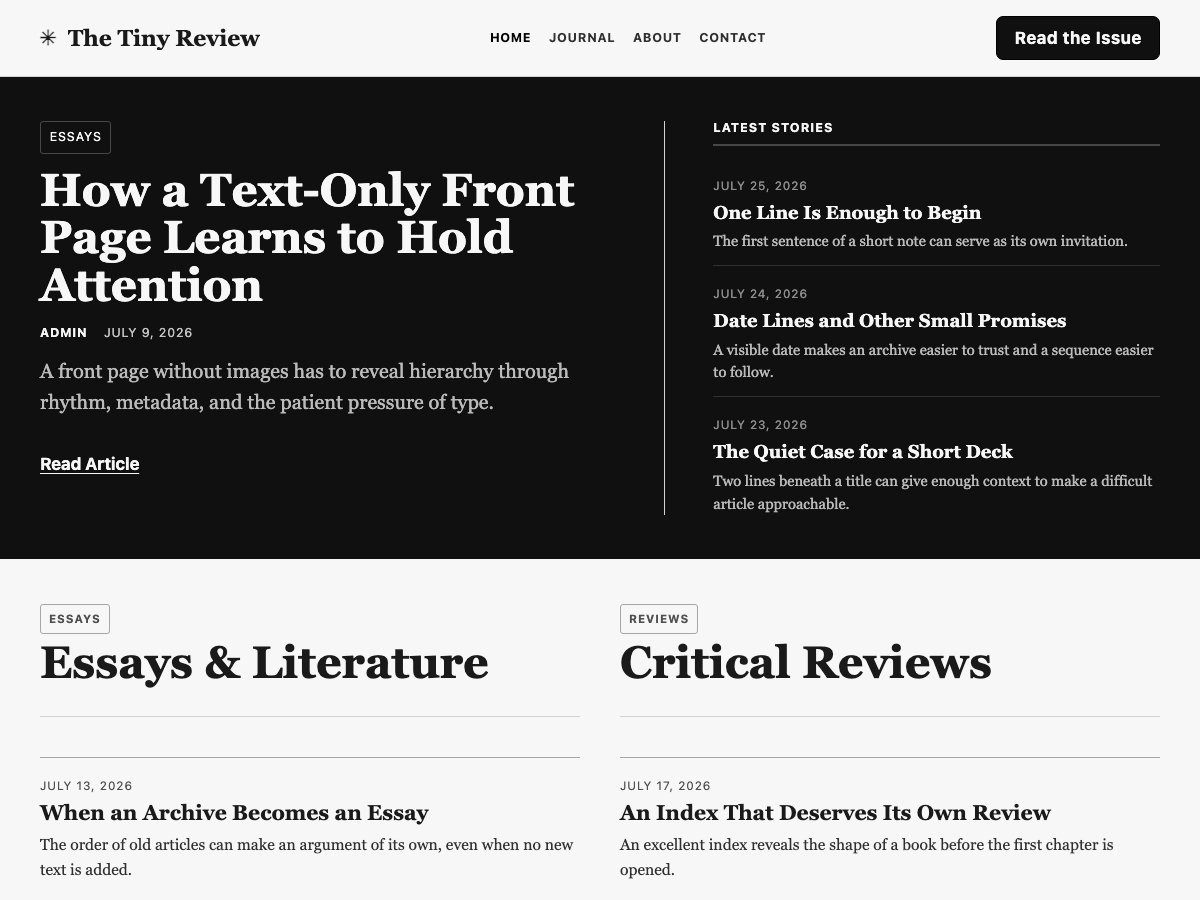
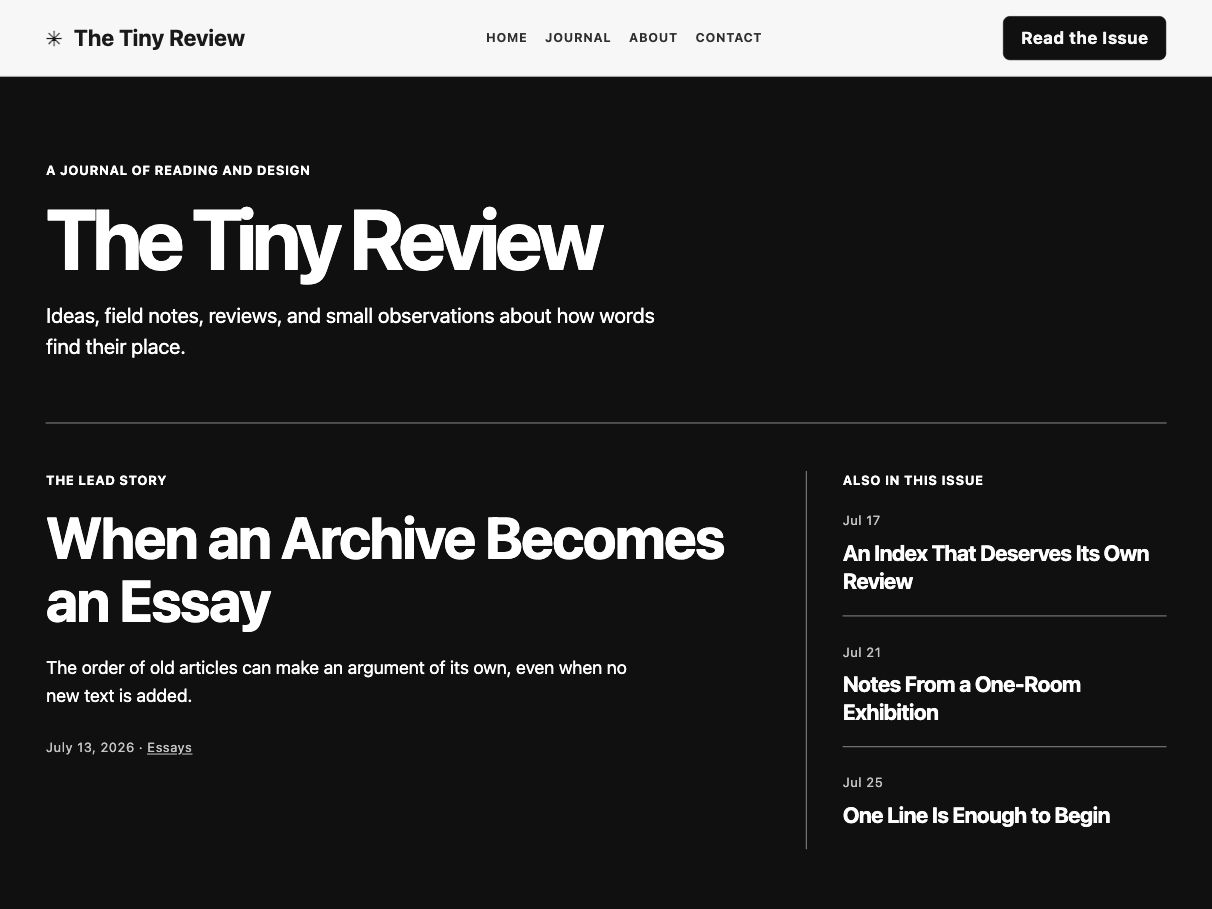
Make long monochrome index the Classic home

diff --git a/style.css b/style.css
@@ -1,7 +1,7 @@
 /*
 Theme Name: Editorial Classic
 Description: A text-only classic editorial theme with black, white, and grey typography and nine article-led home sections.
-Version: 1.4.0
+Version: 1.4.1
 Author: bin zhan
 Text Domain: editorialclassic
 Domain Path: /languages
@@ -29,9 +29,9 @@ Tags: blog, education, news, custom-menu, footer-widgets, right-sidebar, threade
 	--tec-black: #101010;
 	--tec-white: #f7f7f7;
 	--tec-focus: #000000;
-	--tec-font-display: ui-serif, Georgia, serif;
+	--tec-font-display: system-ui, sans-serif;
 	--tec-font-body: system-ui, sans-serif;
-	--tec-font-editorial: ui-serif, Georgia, serif;
+	--tec-font-editorial: system-ui, sans-serif;
 	--tec-gutter: clamp(1.25rem, 4vw, 2rem);
 	--tec-container: 1120px;
 	--tec-content: 700px;
@@ -1340,24 +1340,32 @@ html, body { max-width: 100%; overflow-x: hidden; }
 	.stream-rank-item__title { font-size: 1.28rem; }
 }
 
-/* Long editorial index, shared with the Plus demo. */
 /* Long, article-led home: each band has its own editorial reading order. */
 .home-showcase {
 	--story-accent: var(--tec-ink);
-	--story-cover: #1c1c1e;
+	--story-cover: #101010;
 	--story-cover-ink: #fff;
-	--story-dossier: #f5f5f5;
-	--story-dispatches: #fff;
-	--story-conversation: #f5f5f5;
-	--story-route: #fff;
 }
 .home-showcase .editorial-section { padding-block: clamp(4rem, 7vw, 7rem); }
 .home-showcase .editorial-section__inner { min-width: 0; }
-.home-showcase .editorial-section:nth-child(3) { background: var(--story-dossier); }
-.home-showcase .editorial-section:nth-child(5) { background: var(--story-dispatches); }
-.home-showcase .editorial-section:nth-child(7) { background: var(--story-conversation); }
-.home-showcase .editorial-section:nth-child(8) { background: var(--story-route); }
-.home-showcase .editorial-section:nth-child(9) { background: var(--tec-paper-alt); }
+.home-showcase .story-departments,
+.home-showcase .story-conversation { background: #ededed; }
+.home-showcase .story-dossier,
+.home-showcase .story-notes,
+.home-showcase .story-archive { background: #fff; }
+.home-showcase .story-dispatches { background: #d7d7d7; }
+.home-showcase .story-reviews,
+.home-showcase .story-route {
+	--story-accent: #fff;
+	--tec-muted: #d0d0d0;
+	--tec-ink-soft: #e2e2e2;
+	--tec-rule: #606060;
+	--tec-rule-strong: #8a8a8a;
+	background: #303030;
+	color: #fff;
+}
+.home-showcase .story-route { background: #101010; }
+.home-showcase :is(.story-reviews, .story-route) :is(h2, h3) { color: #fff; }
 .home-showcase h1, .home-showcase h2, .home-showcase h3 { margin: 0; overflow-wrap: anywhere; }
 .home-showcase h2, .home-showcase h3 { letter-spacing: -.025em; }
 .home-showcase a { color: inherit; text-decoration: none; }

diff --git a/assets/css/editor-style.css b/assets/css/editor-style.css
@@ -1,6 +1,6 @@
 body { background: #f7f7f7; color: #1a1a1a; font-family: system-ui, sans-serif; font-size: 17px; line-height: 1.65; }
-h1, h2, h3, h4, h5, h6 { font-family: ui-serif, Georgia, serif; font-weight: 700; line-height: 1.12; }
+h1, h2, h3, h4, h5, h6 { font-family: system-ui, sans-serif; font-weight: 700; line-height: 1.12; }
 a { color: #1a1a1a; text-underline-offset: .18em; }
-blockquote { border-left: 3px solid #101010; padding-left: 1rem; font-family: ui-serif, Georgia, serif; }
+blockquote { border-left: 3px solid #101010; padding-left: 1rem; font-family: system-ui, sans-serif; }
 table { border-collapse: collapse; width: 100%; }
 th, td { border: 1px solid #d2d2d2; padding: .7rem .8rem; }

diff --git a/functions.php b/functions.php
@@ -10,7 +10,7 @@ if ( ! defined( 'ABSPATH' ) ) {
 }
 
 if ( ! defined( 'TINY_EDITORIAL_VERSION' ) ) {
-	define( 'TINY_EDITORIAL_VERSION', '1.4.0' );
+	define( 'TINY_EDITORIAL_VERSION', '1.4.1' );
 }
 
 if ( ! defined( 'TINY_EDITORIAL_DIR' ) ) {

diff --git a/README.md b/README.md
@@ -2,27 +2,27 @@
 
 A text-only WordPress Classic Theme for article-led publications. Its long home arranges posts in nine editorial sections: a lead and cross-category rail, department shelves, essay dossier, reviews, dated dispatches, short notes, paired reading, a guided route, and an archive index.
 
-This edition uses monochrome editorial typography. The original Home Editorial, Home Mosaic, and Home Stream templates remain available.
+This edition uses system fonts and a monochrome rhythm of deep black, charcoal, two greys, and white. The original Home Editorial, Home Mosaic, and Home Stream templates remain available.
 
 ## Local Studio site
 
 - Site: http://localhost:8896/
 - Active theme directory: `editorialclassic`
 - The local sample publication has 26 posts across Essays, Reviews, Dispatches, and Notes.
-- Classic keeps the original Editorial front page and shows the long home at `/showcase/`; Plus uses the long home as its front page.
+- The long home is the front page. The three original home templates remain available as separate pages.
 
 ## Public demonstration
 
 - Site: https://wordpress.im/editorialclassic/
-- Nine-section reading index: https://wordpress.im/editorialclassic/showcase/
+- Nine-section reading index: https://wordpress.im/editorialclassic/
 - The site content and Customizer settings are maintained in WordPress, outside this theme repository.
 
 ## Install
 
-Upload `build/editorialclassic-1.4.0.zip` through WordPress Network Admin, enable it for the intended site, then activate it there. Choose a static front page using the **Long Editorial Home** or **Home Editorial** page template. Posts, page content, menus, and Customizer settings belong to the WordPress site and are separate from the theme package.
+Upload `build/editorialclassic-1.4.1.zip` through WordPress Network Admin, enable it for the intended site, then activate it there. Choose a static front page using the **Long Editorial Home** page template. Posts, page content, menus, and Customizer settings belong to the WordPress site and are separate from the theme package.
 
 The theme uses system fonts, produces no automatic featured images, and does not request external font files. It provides Classic Editor starter HTML in `starter-html/`. See `docs/user-manual-zh.md` for page and template usage.
 
 ## Source and validation
 
-The theme source is in this directory. `site-content/` contains local import files and is excluded from Git. The 1.4.0 source was checked with PHP syntax validation, Stylelint, JavaScript syntax checking, WordPress Studio runtime pages, and desktop/mobile overflow checks. Historical development notes under `docs/` describe earlier versions and should not be read as current release acceptance.
+The theme source is in this directory. `site-content/` contains local import files and is excluded from Git. The 1.4.1 source was checked with PHP syntax validation, Stylelint, JavaScript syntax checking, WordPress Studio runtime pages, and desktop/mobile overflow checks. Historical development notes under `docs/` describe earlier versions and should not be read as current release acceptance.
